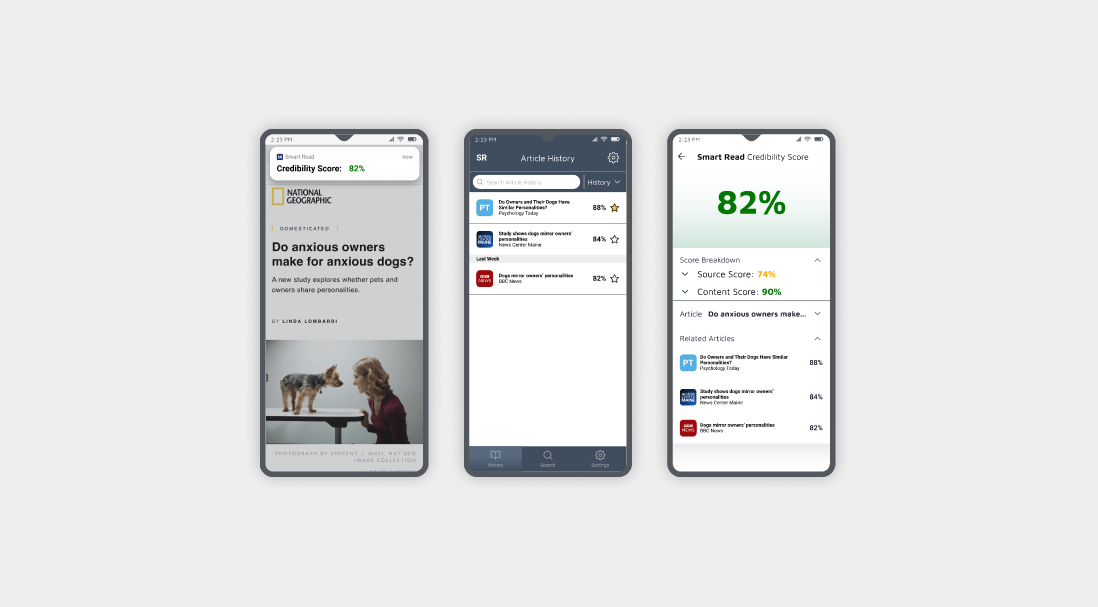
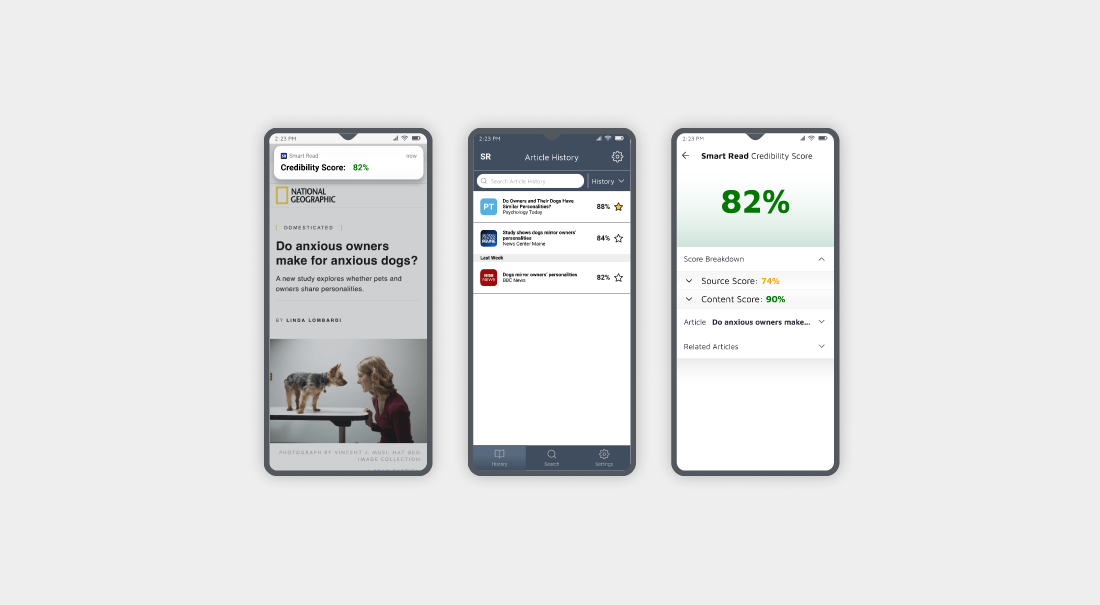
Completed SR Case Study

Changed region(s): [[0.2168, 0.2083, 0.7741, 0.8033]]

diff --git a/pages/smartread.html b/pages/smartread.html
@@ -187,7 +187,7 @@
         <li>Included a score breakdown system to show exactly how scores are calculated</li>
     </ul>
 
-<h1>Easy and clear navigation</h1>
+<h1>Clear navigation and understanding page elements</h1>
 
 <p>Another screen where we received a lot of feedback was our app home page.</p>
 
@@ -220,15 +220,104 @@
 <h1>Revisiting Smart Read</h1>
 
 <p>When re-writing this case study, I noticed that our final iterations <span class="bold">did not adequately address the issues that the users encountered</span> - especially in our home page. 
-    So this little section is me updating some of these designs to better address our usability issues.
+    So I spent some time to address this.
 
+<h2>Clear navigation and understanding page elements</h2>
 
+<p>As previously stated, one of our main issues with the home page was that testers were confused about the search bar behaviour.</p>
 
-<div class="warningcell center">
+<p class="bold">Tester expectations and behaviour</p>
+    <ul class="insightcont">
+        <li>Search bar would search through their previously viewed articles</li>
+        <li>Search bar would search through viewed articles based on “Authors” or “Titles” or whichever drop down option was selected</li>
+        <li>Testers did not expect the search bar to search through databases that had nothing to do with their article history</li>
+    </ul>
 
-    <p>🚧 Hi! This case study is still being updated. Check back later! </p>
-        <p>In the meantime, checkout my <a class="warning" href="./honeybeehub-profilebuilder.html">Honeybee Case Study</a>, for something else that I've been working on 😊.</p>
-</p></div>
+<h2>Our final iteration does not solve this issue</h2>
+
+<p>Though our final iteration in 2019 was a definite improvement from the first, however it still does not adequately solve the issues encountered by our testers.</p>
+
+<p><img class="imgcontainer" src="images/SmartRead/Final iteration issues.png"></p>
+
+<p class="bold">Insights</p>
+    <ul class="insightcont">
+        <li>There is no indication that the Database Search Bar is <span class="bold">not</span> affiliated with the Viewed Articles section</li>
+        <li>Violates Consistency and Standards Heuristic, usually search bars located on a page search the listed elements within the page, and not an independent database that has no affiliation with the other elements of the page</li>
+    </ul>
+
+<h2>Separating non-affiliated elements to minimize confusion</h2>
+
+<p><img class="imgcontainer" src="images/SmartRead/Separating DB_History pages.png"></p>
+
+<p class="bold">Key Design Decisions</p>
+    <ul class="insightcont">
+        <li>Separated the Search databases search bar and Viewed Articles elements into different pages, so it is clear that these elements are not affiliated
+        </li>
+        <li>Replaced the “Smart Read” title bar to reflect the current page title</li>
+        <li>Added a page navigation bar at the bottom of the screen, to easily access and tap on these different pages with the thumb</li>
+    </ul>
+
+<h2>New Article History page</h2>
+<p>Taking a closer look at the newly designed, Article History page.</p>
+
+<p><img class="imgcontainer" src="images/SmartRead/Article History page.png"></p>
+
+<p class="bold">Key Design Decisions</p>
+    <ul class="insightcont">
+        <li>Page title now reflects the current page</li>
+        <li>Search bar hint text indicates what this search bar is searching for</li>
+        <li>Currently selected page is indicated by a lighter color on the navigation bar</li>
+    </ul>
+
+<h2> New Search Database page</h2>
+
+<p><img class="imgcontainer" src="images/SmartRead/Database Search page.png"></p>
+
+<p class="bold">Key Design Decisions</p>
+    <ul class="insightcont">
+        <li>Search bar hint text indicates what this search bar is searching for</li>
+        <li>Initial, empty search page illustration gives a suggestion on how to use the search bar and or how to use this Search Database page</li>
+    </ul>
+
+<h2>Updating remaining screens to maintain consistency</h2>
+
+<p>Since I removed the red title bar and replaced it with a navy blue color, I needed to update the other screens to match this change as well.</p>
+
+<p>Here are the remaining screens all together!</p>
+
+<p><img class="imgcontainer" src="images/SmartRead/New Pages.png"></p>
+
+<p><img class="imgcontainer" src="images/SmartRead/Credibility Score page.png"></p>
+
+<p><img class="imgcontainer" src="images/SmartRead/app.png"></p>
+
+<!--REFLECTION-->
+
+<h3 class="accent">Reflection</h3>
+<h1>Finding a target audience</h1>
+
+<p>Our mission for this project was to help combat the spread of misinformation online. 
+    This being a grave issue that we, and a majority of our testers and surveyees felt serious about due to its immeasurable impact on our own,
+     as well as others’ wellbeing. With Smart Read, we wanted to equip our users with an easier way to fact check and think critically of the information they are consuming.
+      However, when doing our user research, most of the participants were around the downtown Toronto area and within circles of academia. 
+    Our user research is based on this demographic of young, educated adults living in urban Canada. <span class="bold">Is this the population that is most susceptible to misinformation?</span></p>
+
+<p>I believe we should have done preliminary research to see what demographic is most susceptible to misinformation, what kinds of misinformation is prone to being misconstrued,
+      and what audience is likely to accept Smart Read as an intervention. Targeting the demographic that encompasses all 3 of these parameters 
+    could really help us maximize Smart Read’s mission and <span class="bold">design Smart Read for the people that truly need it the most.</span></p>
+
+<h3 class="accent">Going Forward</h3>
+<h1>Sharing positivity</h1>
+<p>There is ample space within Smart Read to introduce positive and negative emotions.
+     Going forward with this project, I would love for the Credibility Score page to have positive animations paired with a good credibility score,
+      and less positive but still encouraging animations coupled with poor scores. Injecting these fun graphics or animations could really boost the
+       experience of an application and also encourage behaviours as well.
+    </p>
+
+<p>I’d also like to add a <span class="bold">"share"</span> option, so users can share credibility scores at the same time they’d share a news article. 
+    This would help with <span class="bold">app outreach, exposure, and encourage others to use Smart Read as well</span> - something that we are currently missing in the current iteration of the app.</p>
+
+<p>Anyways, that's all for this case study. Thank you for reading!</p>
 
 <!--PAGINATION-->
     <div class="pagination">
